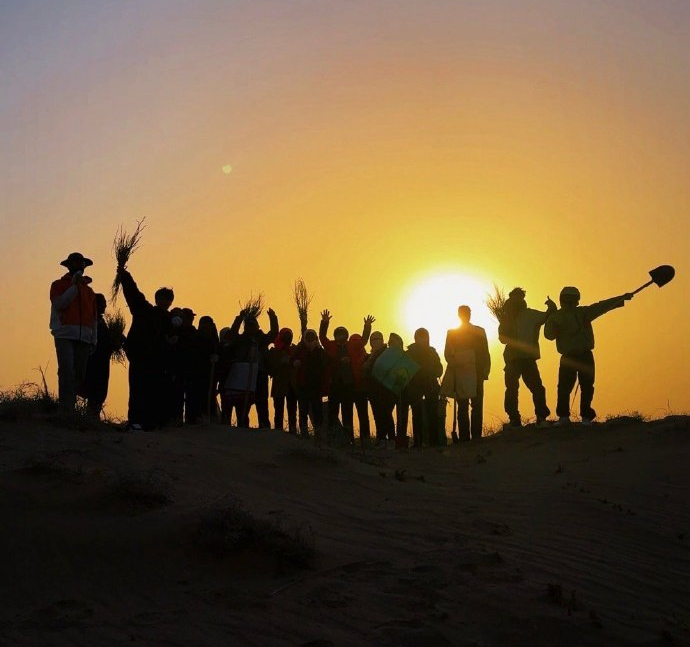
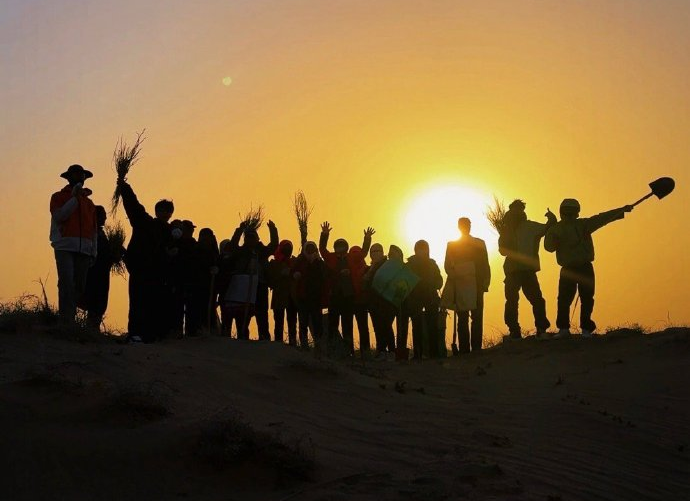
Please enter the commit message for your changes. Lines starting with '#' will be ignored, and an empty message aborts the commit.
On branch master
Your branch is up to date with 'github-origin/master'.

Changes to be committed:
	modified:   css/index.css
	modified:   img/image.png
	new file:   img/result_mb.png
	new file:   img/result_pc.png
	modified:   less/index.less

diff --git a/css/index.css b/css/index.css
@@ -81,7 +81,7 @@
 }
 .carousel .carousel-item img {
   width: 100%;
-  height: 70vh;
+  height: 75vh;
   object-fit: cover;
 }
 @media (max-width: 768px) {

diff --git a/less/index.less b/less/index.less
@@ -107,7 +107,7 @@
 
     .carousel-item img {
         width: 100%;
-        height: 70vh;
+        height: 75vh;
         object-fit: cover;
     }
     
